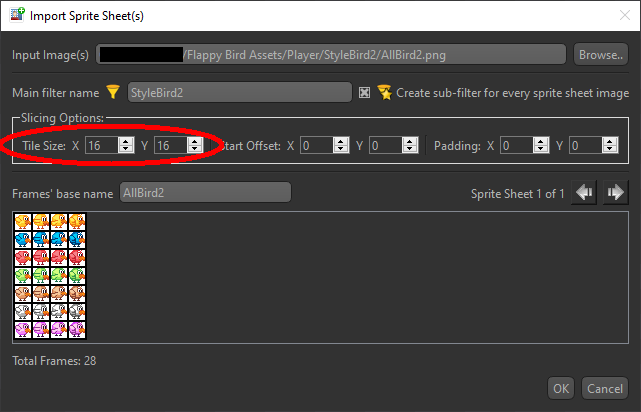
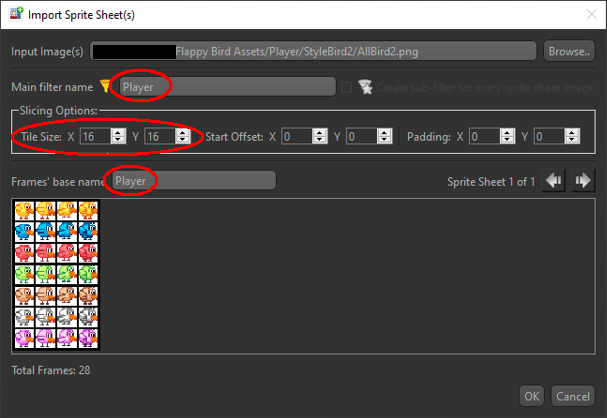
First Project - Import Assets section implemented

diff --git a/mkdocs/docs/getting-started/first-project.md b/mkdocs/docs/getting-started/first-project.md
@@ -1,6 +1,6 @@
 Our goal here is to speedrun a simple game to cover some of Harmony Engine's major features. It assumes you have already done the steps in the [Installation & Setup](install.md) section.
 
-## Create the Project
+## 1. Create the Project
 
 With HyEditor open go to `File > New Project` from the main menu which opens the **New Project** dialog.
 
@@ -34,9 +34,9 @@ Once the build has fully generated you can click ![Open Build](../img/editor/Bui
     Adding or Removing files, creating folders, modifying code dependencies or other build settings should all be done within HyEditor. When changes are made in HyEditor it informs and updates CMake. Visual Studio will detect the change upon `Build Solution` and refresh.
 
 
-## Setup Assets
+## 2. Import Assets
 
-Download the following asset packs that will be used in this example:
+Download the following free asset packs that will be used in this example:
 <div class="grid cards" markdown>
 
 -   [:material-palette-outline:{.hyindicator}**Flappy Bird Assets**](https://megacrash.itch.io/flappy-bird-assets)  
@@ -50,6 +50,8 @@ Download the following asset packs that will be used in this example:
 
 You can extract the zip files anywhere on your PC. The assets will be copied into the project when importing below (no longer referencing the original location).
 
+<center><h3>Player Assets</h3></center>
+
 Continuing with the [Asset Manager](../editor/asset-manager.md), click the ![Atlas Icon](../img/editor/atlas-file.png) Atlases tab within it.
 
 Press the ![Import Sprite Sheet Icon](../img/editor/slice-sprite-sheet.png) button at the bottom to **Import a Sprite Sheet**
@@ -61,13 +63,79 @@ Press the ![Import Sprite Sheet Icon](../img/editor/slice-sprite-sheet.png) butt
 </figure>
 
 - Click `Browse..` and locate the extracted `Flappy Bird Assets/Player` directory and choose from either style, selecting either `AllBird1.png` or `AllBird2.png`
+- Rename "Filter name" to `Player`
 - Change the Tile Size X and Y to be `16`
+- Rename "Frames' base name" to be `Player`
 - You can zoom/pan the preview window with ++w++ ++a++ ++s++ ++d++ and ++middle-button++ :material-mouse-scroll-wheel:
-- Press OK, and confirm importing assets.
+- Press OK, and confirm importing 28 assets.
 </div>
 
+You should now have a new filter in the tree view called `Player` that contains the 28 sliced images.
 
-## Create the Prefabs
+!!! tip annotate "Specify where new assets and filters get placed into"
+    In the Asset Manager, what you have selected determines where new items are placed into. To place new items to the root (and not within the `Player` filter) make sure to deselect all items by clicking an empty region in the Atlas Manager's tree view. (1)
 
-## Write the Game
+1. ![Import Clear Tip](../img/getting-started/flappy-import-cleartip.gif)
+
+<center><h3>Pipe Assets</h3></center>
+
+Within the [Asset Manager](../editor/asset-manager.md), right-Click :material-mouse-right-click: an empty region in the tree view and select "![Create Filter](../img/editor/Filter-New.png) Add Filter" in the context menu. Name it `Pipes`, press OK, then select the newly created filter by clicking it.
+
+Press the ![Import Sprite Sheet Icon](../img/editor/slice-sprite-sheet.png) button again, but this time we'll need to adjust the slicing options. Starting with slicing the **Tops**.
+
+<div class="grid" markdown>
+<figure>
+  <img src="../img/getting-started/flappy-import-pipetops.gif">
+  <figcaption></figcaption>
+</figure>
+
+- Click `Browse..` and locate the extracted `Flappy Bird Assets/Tiles` directory and choose a style, selecting either `PipeStyle1.png`, or `PipeStyle2.png`, etc.
+- Rename "Filter name" and "Frames' base name" to be `Tops`
+- Depending on which style you choose your slicing options will vary.
+
+!!! tip "Setting Slicing Options"
+    You can use your mouse wheel :material-mouse-scroll-wheel: to change slicing option values and preview the changes quickly.
+</div>
+
+Select the `Pipes` filter you created earlier and repeat the ![Import Sprite Sheet Icon](../img/editor/slice-sprite-sheet.png) process for the **Bodies** and then **Bottoms**. For `PipeStyle1.png`, the slicing options values are shown here:
+<div class="grid" markdown>
+![Import Sprite Sheet Icon](../img/getting-started/flappy-import-pipebodies.png)
+
+![Import Sprite Sheet Icon](../img/getting-started/flappy-import-pipebottoms.png)
+</div>
+
+<center><h3>Ground Assets</h3></center>
+
+Within the [Asset Manager](../editor/asset-manager.md), right-Click :material-mouse-right-click: an empty region in the tree view and select "![Import Sprite Sheet Icon](../img/editor/slice-sprite-sheet.png) Import Sprite Sheet(s)" in the context menu.
+
+<div class="grid" markdown>
+<figure>
+  <img src="../img/getting-started/flappy-import-ground.png">
+  <figcaption></figcaption>
+</figure>
+
+- Click `Browse..` and locate the extracted `Flappy Bird Assets/Tiles` directory and choose a style, selecting either `SimpleStyle1.png`, or `SimpleStyle2.png`, etc.
+- Rename "Filter name" and "Frames' base name" to be `Ground`
+- Depending on which style you choose your slicing options will vary.
+</div>
+
+<center><h3>Background Assets</h3></center>
+
+<div class="grid" markdown>
+Within the [Asset Manager](../editor/asset-manager.md), right-Click :material-mouse-right-click: an empty region in the tree view and select "![Create Filter](../img/editor/Filter-New.png) Add Filter" in the context menu. Name it `Backgrounds`, press OK, then select the newly created filter by clicking it.
+<br><br>
+The backgrounds are individual images so we can simply press the ![Import Images](../img/editor/AtlasFrame.png) button, browse to the extracted `Flappy Bird Assets\Background` directory and select 1 or more background images that you want.
+<br><br>
+This example is going to cycle day and nights as a run progresses using images: `Background1.png`, `Background2.png`, `Background3.png`, `Background4.png`, `Background5.png`, and `Background6.png`
+
+<figure>
+  <img src="../img/getting-started/flappy-assets.png">
+  <figcaption>Your <a href="../editor/asset-manager.html">Asset Manager</a> should look something like this</figcaption>
+</figure>
+</div>
+
+## 3. Create the Prefabs
+
+
+## 4. Write the Game
 
